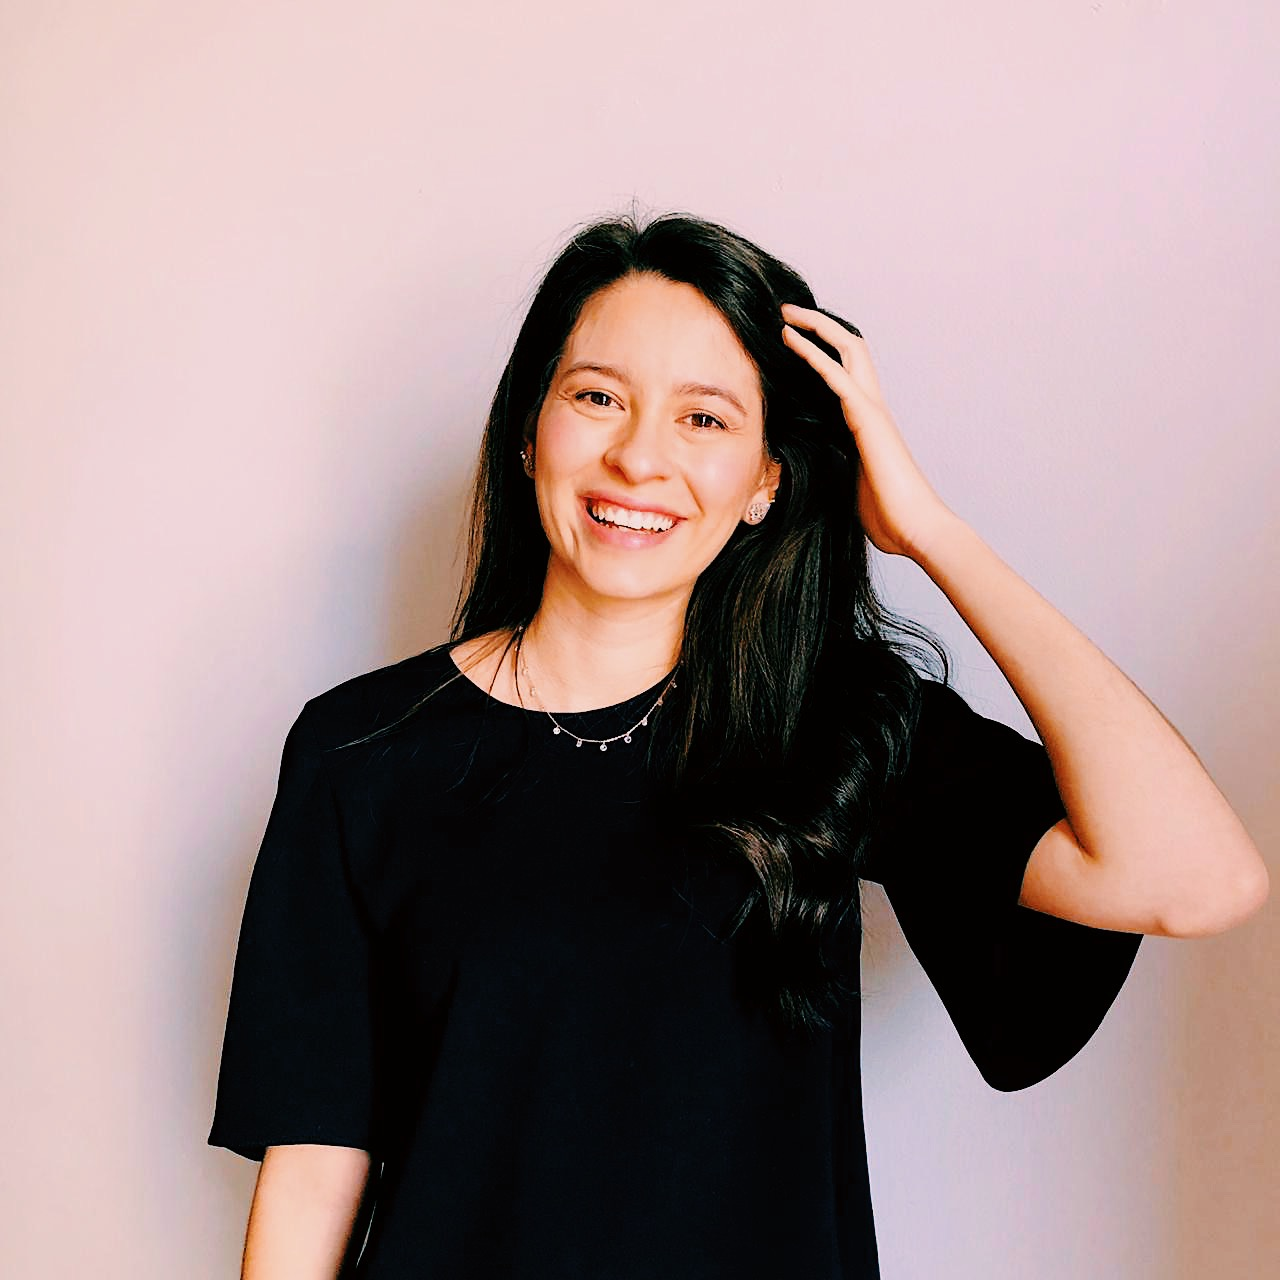
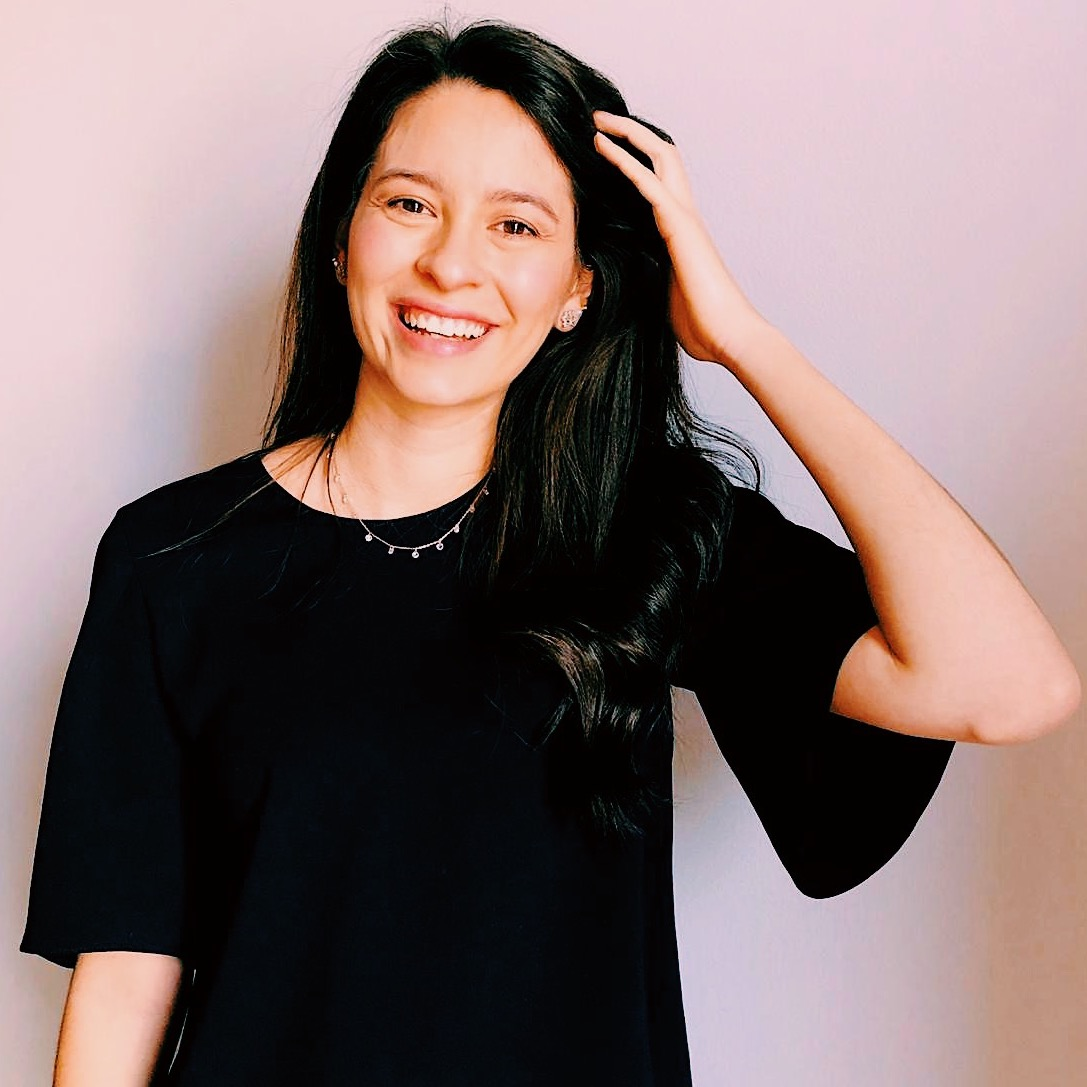
updated about image layout issues on specific browsers

diff --git a/css/main.css b/css/main.css
@@ -474,7 +474,7 @@ footer {
 
 .about-image-div img{
   border-radius: 5px;
-  width:80%;
+  width:100%;
   height: auto;
  }
 
@@ -884,7 +884,7 @@ footer {
  
 
   .about-image-div img{
-    width: 70%;
+    width: 50%;
    }
 
    #about figure{
